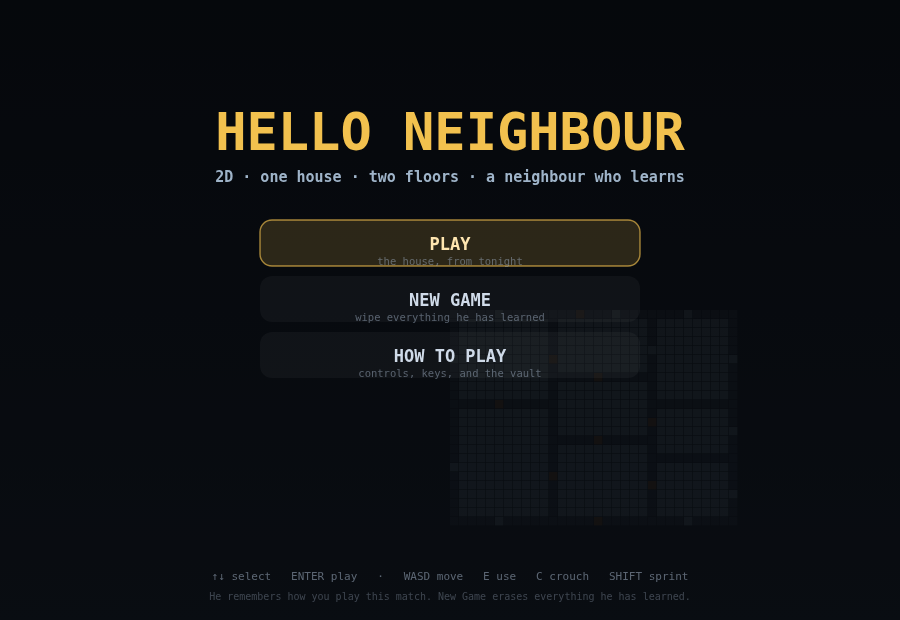
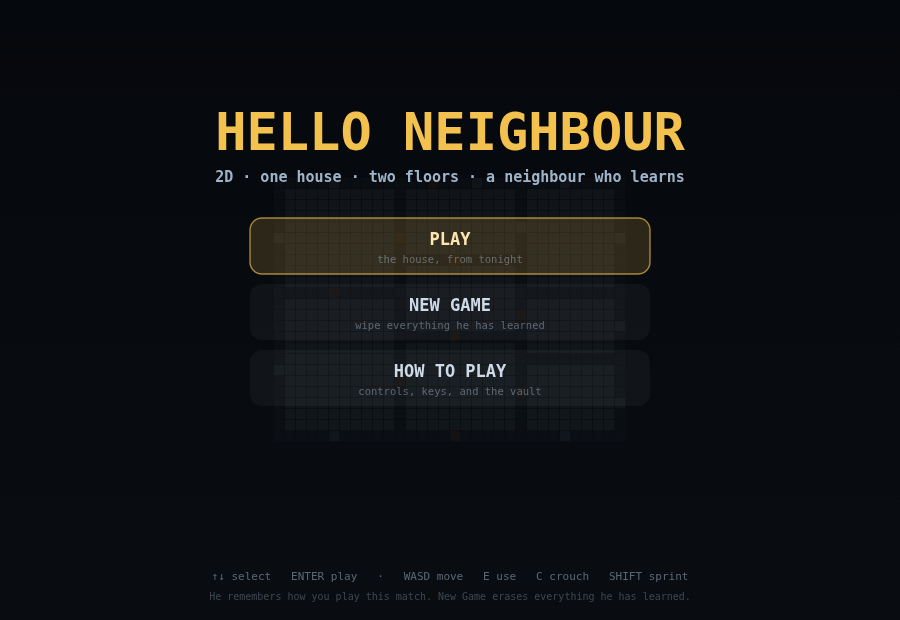
Menu: centre the house backdrop, space out the buttons; hide the HUD panels outside play

Changed region(s): [[0.2489, 0.3371, 0.7467, 0.6435]]

diff --git a/index.html b/index.html
@@ -2899,10 +2899,14 @@ function render(dt) {
   ctx.setTransform(1, 0, 0, 1, 0, 0);
   ctx.fillStyle = COL.bg;
   ctx.fillRect(0, 0, CVW, CVH);
-  if (UI.screen === 'menu') { drawMenu(dt); return; }
-  if (UI.screen === 'help') { drawHelp(); return; }
-  if (UI.screen === 'cut') { drawCut(dt); return; }
-  if (!GAME || !W || !P) return;
+  if (UI.screen === 'menu' || UI.screen === 'help' || UI.screen === 'cut' || !GAME || !W || !P) {
+    showPanels(false);
+    if (UI.screen === 'menu') { drawMenu(dt); return; }
+    if (UI.screen === 'help') { drawHelp(); return; }
+    if (UI.screen === 'cut') { drawCut(dt); return; }
+    return;
+  }
+  showPanels(true);
   drawWorld();
   drawHUD();
   if (UI.screen === 'pause') drawPause();
@@ -3257,6 +3261,17 @@ function opaque(z, x, y) {
 }
 
 /* -------------------------------------------------------------- the HUD */
+let panelsOn = null;
+function showPanels(on) {
+  if (panelsOn === on) return;
+  panelsOn = on;
+  for (const id of ['hud', 'dbg', 'inv']) {
+    const el = $(id);
+    if (el) el.style.display = on ? 'block' : 'none';
+  }
+  if (!on) { const m = $('msg'); if (m) m.style.display = 'none'; }
+}
+
 let hudCache = '';
 function drawHUD() {
   const hud = $('hud'), dbg = $('dbg'), inv = $('inv'), msg = $('msg');
@@ -3347,11 +3362,12 @@ function drawMenu(dt) {
   if (W) { // a small plain map of the house as a backdrop
     ctx.save();
     ctx.globalAlpha = 0.18;
-    ctx.translate(CVW / 2 - HOUSE.x * 9, CVH / 2 - HOUSE.y * 9);
+    const S = 11;
+    ctx.translate(CVW / 2 - (HOUSE.x + HOUSE.w / 2) * S, CVH / 2 - (HOUSE.y + HOUSE.h / 2) * S);
     for (let y = HOUSE.y; y < HOUSE.y + HOUSE.h; y++) for (let x = HOUSE.x; x < HOUSE.x + HOUSE.w; x++) {
       const c = W.floors[0].G[y] && W.floors[0].G[y][x];
       ctx.fillStyle = c === '#' ? '#3a4553' : c === 'D' ? '#8a5a2b' : '#7b8fa3';
-      ctx.fillRect(x * 9, y * 9, 8.4, 8.4);
+      ctx.fillRect(x * S, y * S, S - 0.6, S - 0.6);
     }
     ctx.restore();
   }
@@ -3369,20 +3385,20 @@ function drawMenu(dt) {
   const has = !!storedMatch();
   const items = menuItems(has);
   items.forEach((it, i) => {
-    const y = 250 + i * 56;
+    const y = 246 + i * 66;
     const sel = i === MENU.sel;
     ctx.fillStyle = sel ? 'rgba(242,193,78,0.16)' : 'rgba(255,255,255,0.04)';
-    roundRect(CVW / 2 - 190, y - 30, 380, 46, 12); ctx.fill();
-    if (sel) { ctx.strokeStyle = 'rgba(242,193,78,0.65)'; ctx.lineWidth = 1.4; roundRect(CVW / 2 - 190, y - 30, 380, 46, 12); ctx.stroke(); }
+    roundRect(CVW / 2 - 200, y - 28, 400, 56, 12); ctx.fill();
+    if (sel) { ctx.strokeStyle = 'rgba(242,193,78,0.65)'; ctx.lineWidth = 1.4; roundRect(CVW / 2 - 200, y - 28, 400, 56, 12); ctx.stroke(); }
     ctx.fillStyle = it.disabled ? 'rgba(160,176,196,0.35)' : sel ? '#ffe6b0' : '#cfdae8';
     ctx.font = '600 17px ui-monospace, monospace';
-    ctx.fillText(it.label, CVW / 2, y);
+    ctx.fillText(it.label, CVW / 2, y - 1);
     if (it.sub) {
       ctx.fillStyle = 'rgba(160,176,196,0.5)';
       ctx.font = '10.5px ui-monospace, monospace';
-      ctx.fillText(it.sub, CVW / 2, y + 15);
+      ctx.fillText(it.sub, CVW / 2, y + 17);
     }
-    MENU.rects[i] = { x: CVW / 2 - 190, y: y - 30, w: 380, h: 46 };
+    MENU.rects[i] = { x: CVW / 2 - 200, y: y - 28, w: 400, h: 56 };
   });
   ctx.fillStyle = 'rgba(160,176,196,0.55)';
   ctx.font = '11px ui-monospace, monospace';

diff --git a/.dev/views.js b/.dev/views.js
@@ -33,10 +33,14 @@ function render(dt) {
   ctx.setTransform(1, 0, 0, 1, 0, 0);
   ctx.fillStyle = COL.bg;
   ctx.fillRect(0, 0, CVW, CVH);
-  if (UI.screen === 'menu') { drawMenu(dt); return; }
-  if (UI.screen === 'help') { drawHelp(); return; }
-  if (UI.screen === 'cut') { drawCut(dt); return; }
-  if (!GAME || !W || !P) return;
+  if (UI.screen === 'menu' || UI.screen === 'help' || UI.screen === 'cut' || !GAME || !W || !P) {
+    showPanels(false);
+    if (UI.screen === 'menu') { drawMenu(dt); return; }
+    if (UI.screen === 'help') { drawHelp(); return; }
+    if (UI.screen === 'cut') { drawCut(dt); return; }
+    return;
+  }
+  showPanels(true);
   drawWorld();
   drawHUD();
   if (UI.screen === 'pause') drawPause();
@@ -391,6 +395,17 @@ function opaque(z, x, y) {
 }
 
 /* -------------------------------------------------------------- the HUD */
+let panelsOn = null;
+function showPanels(on) {
+  if (panelsOn === on) return;
+  panelsOn = on;
+  for (const id of ['hud', 'dbg', 'inv']) {
+    const el = $(id);
+    if (el) el.style.display = on ? 'block' : 'none';
+  }
+  if (!on) { const m = $('msg'); if (m) m.style.display = 'none'; }
+}
+
 let hudCache = '';
 function drawHUD() {
   const hud = $('hud'), dbg = $('dbg'), inv = $('inv'), msg = $('msg');
@@ -481,11 +496,12 @@ function drawMenu(dt) {
   if (W) { // a small plain map of the house as a backdrop
     ctx.save();
     ctx.globalAlpha = 0.18;
-    ctx.translate(CVW / 2 - HOUSE.x * 9, CVH / 2 - HOUSE.y * 9);
+    const S = 11;
+    ctx.translate(CVW / 2 - (HOUSE.x + HOUSE.w / 2) * S, CVH / 2 - (HOUSE.y + HOUSE.h / 2) * S);
     for (let y = HOUSE.y; y < HOUSE.y + HOUSE.h; y++) for (let x = HOUSE.x; x < HOUSE.x + HOUSE.w; x++) {
       const c = W.floors[0].G[y] && W.floors[0].G[y][x];
       ctx.fillStyle = c === '#' ? '#3a4553' : c === 'D' ? '#8a5a2b' : '#7b8fa3';
-      ctx.fillRect(x * 9, y * 9, 8.4, 8.4);
+      ctx.fillRect(x * S, y * S, S - 0.6, S - 0.6);
     }
     ctx.restore();
   }
@@ -503,20 +519,20 @@ function drawMenu(dt) {
   const has = !!storedMatch();
   const items = menuItems(has);
   items.forEach((it, i) => {
-    const y = 250 + i * 56;
+    const y = 246 + i * 66;
     const sel = i === MENU.sel;
     ctx.fillStyle = sel ? 'rgba(242,193,78,0.16)' : 'rgba(255,255,255,0.04)';
-    roundRect(CVW / 2 - 190, y - 30, 380, 46, 12); ctx.fill();
-    if (sel) { ctx.strokeStyle = 'rgba(242,193,78,0.65)'; ctx.lineWidth = 1.4; roundRect(CVW / 2 - 190, y - 30, 380, 46, 12); ctx.stroke(); }
+    roundRect(CVW / 2 - 200, y - 28, 400, 56, 12); ctx.fill();
+    if (sel) { ctx.strokeStyle = 'rgba(242,193,78,0.65)'; ctx.lineWidth = 1.4; roundRect(CVW / 2 - 200, y - 28, 400, 56, 12); ctx.stroke(); }
     ctx.fillStyle = it.disabled ? 'rgba(160,176,196,0.35)' : sel ? '#ffe6b0' : '#cfdae8';
     ctx.font = '600 17px ui-monospace, monospace';
-    ctx.fillText(it.label, CVW / 2, y);
+    ctx.fillText(it.label, CVW / 2, y - 1);
     if (it.sub) {
       ctx.fillStyle = 'rgba(160,176,196,0.5)';
       ctx.font = '10.5px ui-monospace, monospace';
-      ctx.fillText(it.sub, CVW / 2, y + 15);
+      ctx.fillText(it.sub, CVW / 2, y + 17);
     }
-    MENU.rects[i] = { x: CVW / 2 - 190, y: y - 30, w: 380, h: 46 };
+    MENU.rects[i] = { x: CVW / 2 - 200, y: y - 28, w: 400, h: 56 };
   });
   ctx.fillStyle = 'rgba(160,176,196,0.55)';
   ctx.font = '11px ui-monospace, monospace';
